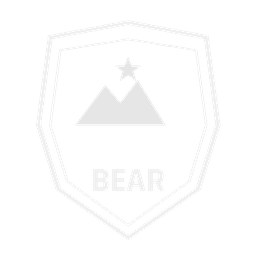
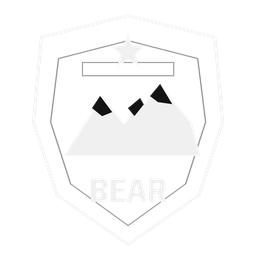
Insignias de BEAR y USEC más elaboradas
BEAR con cumbres nevadas y estrella militar, USEC con torre de oficinas y
antena, ambas con marco interior y rótulo. Diseños propios.

Novedades: docs/novedades/2026-10-31-insignias-de-bear-y-usec-mas-elaboradas.png

Claude-Session: https://claude.ai/code/session_01F9j5YXYqUJFKzc7dviUGH9

diff --git a/docs/novedades/README.md b/docs/novedades/README.md
@@ -2,6 +2,12 @@
 
 Una imagen por commit, la más reciente arriba. Se generan con `python tools/novedades.py cambios.json`.
 
+## 2026-10-31 · Insignias de BEAR y USEC más elaboradas
+
+facciones (BEAR, USEC) (baja)
+
+![Insignias de BEAR y USEC más elaboradas](2026-10-31-insignias-de-bear-y-usec-mas-elaboradas.png)
+
 ## 2026-10-31 · Insignias originales de BEAR y USEC
 
 facciones (BEAR, USEC) (baja)
